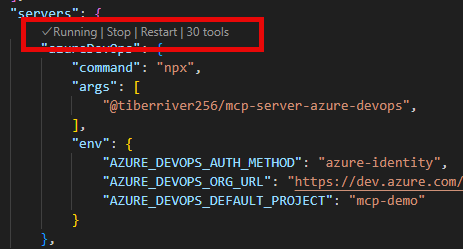
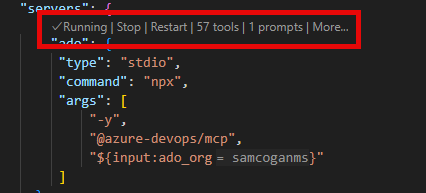
Update to use Microsoft ADO Server

Changed region(s): [[0.0, 0.0, 1.0, 0.8705], [0.0915, 0.8394, 0.1831, 0.9948], [0.1221, 0.3731, 0.1526, 0.4041]]

diff --git a/docs/azure-devops.md b/docs/azure-devops.md
@@ -1,6 +1,6 @@
 # Azure DevOps
 
-The [Azure DevOps MCP Server](https://github.com/Tiberriver256/mcp-server-azure-devops) is a third party implementation by [Micah Rairdon](https://github.com/Tiberriver256), which allows AI assistants, like GitHub Copilot, to interact with Azure DevOps. This MCP Server supports working with:
+The [Azure DevOps MCP Server](https://github.com/microsoft/azure-devops-mcp) is an MCP server created by Microsoft, which allows AI assistants, like GitHub Copilot, to interact with Azure DevOps. This MCP Server supports working with:
 
 - Projects
 - Work Items
@@ -8,6 +8,7 @@ The [Azure DevOps MCP Server](https://github.com/Tiberriver256/mcp-server-azure-
 - Pull Requests
 - Branches
 - Pipelines
+= Test Plans
 
 ## Prerequisites
 
@@ -19,9 +20,10 @@ For the purpose of this workshop we will run the MCP server locally, and so you 
 
 ## Production Use
 
-For ease of use in this workshop, we will be running the MCP server locally using Stdio, and will authenticate using a PAT token. This is suitable for a single user to get familiar with using the MCP server.
+For ease of use in this workshop, we will be running the MCP server locally using Stdio,  This is suitable for a single user to work locally with the MCP server.
 
-If you want to roll out the use of this MCP server to a larger group of people in production, you may want to look at running the server remotely using SSE or HTTP Streaming, and authenticating using a Managed Identity or Service Principal.
+Currently the Azure DevOps MCP server is in preview, and does not support running remotely using SSE or HTTP Streaming.
+
 
 ## Module Sections
 
@@ -42,23 +44,9 @@ If you want to roll out the use of this MCP server to a larger group of people i
 }
 ```
 
-#### 1.2 Generate PAT
+#### 1.2 Authenticate
 
-To keep things simple, we will use a Personal Access Token (PAT) to access Azure DevOps. You will need to generate this token using the following steps:
-
-- Go to https://dev.azure.com/{your-organization}/_usersSettings/tokens or click on your profile picture > Personal access tokens
-- Select "+ New Token"
-- Name your token (e.g., "MCP Server Access")
-- Set an expiration date
-- Select the following scopes:
-  - Code: Read & Write
-  - Work Items: Read & Write
-  - Build: Read & Execute
-  - Project and Team: Read
-  - Graph: Read
-  - Release: Read & Execute
-
-Click "Create" and copy the generated token
+The Azure DevOps MCP server uses your Entra ID credentials to authenticate to Azure DevOps. Ensure that you have an Azure DevOps Org that is backed by Entra ID, and that you are logged in to the Azure CLI with your Entra ID user and the correct tenant selected.
 
 #### 1.3 Add MCP Server
 
@@ -68,24 +56,16 @@ Click "Create" and copy the generated token
 {
     "inputs": [
         {
-            "id": "ado_pat_token",
+            "id": "ado_org",
             "type": "promptString",
-            "description": "Azure DevOps Personal Access Token",
-            "password": true
+            "description": "Azure DevOps organization name  (e.g. 'contoso')"
         }
     ],
     "servers": {
-        "azureDevOps": {
-            "command": "npx",
-            "args": [
-                "@tiberriver256/mcp-server-azure-devops",
-            ],
-            "env": {
-                "AZURE_DEVOPS_PAT": "${input:ado_pat_token}",
-                "AZURE_DEVOPS_AUTH_METHOD": "pat",
-                "AZURE_DEVOPS_ORG_URL": "https://dev.azure.com/<Azure DevOps Organization Name>",
-                "AZURE_DEVOPS_DEFAULT_PROJECT": "<Azure DevOps Project>"
-            }
+        "ado": {
+         "type": "stdio",
+         "command": "mcp-server-azuredevops",
+         "args": ["${input:ado_org}"]
         }
     }
 }
